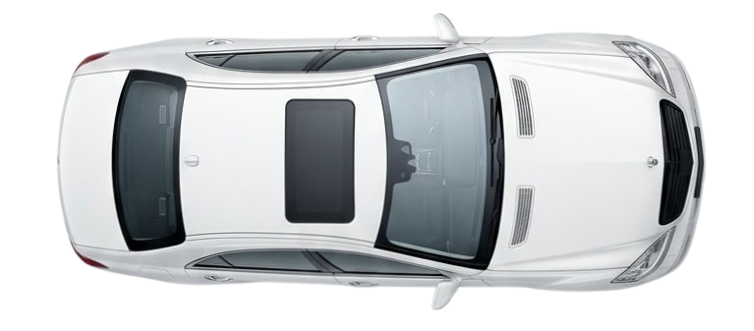
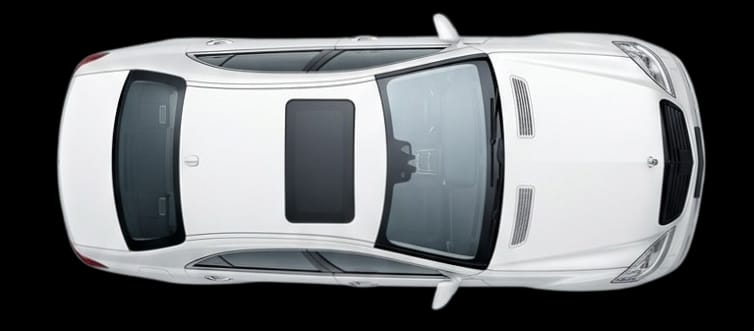
fix: update sitemap domain to taxiservicesinajmer.com, compress images to WebP, and improve accessibility & performance

diff --git a/src/data/vehicles.ts b/src/data/vehicles.ts
@@ -43,7 +43,7 @@ export const vehicles: Vehicle[] = [
     freeCancellation: true,
     bestFor: "Intercity one-way travel, airport transfers & business trips",
     popular: true,
-    image: "/images/vehicles/Maruti%20Swift%20Dzire.png",
+    image: "/images/vehicles/Maruti%20Swift%20Dzire.webp",
     altText: "Maruti Swift Dzire AC sedan taxi available for rental in Ajmer",
     fixedFares: {
       ajmerToPushkar: 700,
@@ -65,7 +65,7 @@ export const vehicles: Vehicle[] = [
     freeCancellation: true,
     bestFor: "Comfortable highway rides with large boot space",
     popular: true,
-    image: "/images/vehicles/Toyota%20Etios.png",
+    image: "/images/vehicles/Toyota%20Etios.webp",
     altText: "Toyota Etios sedan cab for outstation and airport pickup from Ajmer",
     fixedFares: {
       ajmerToPushkar: 700,
@@ -87,7 +87,7 @@ export const vehicles: Vehicle[] = [
     freeCancellation: true,
     bestFor: "Family trips, Pushkar pilgrimages & outstation tours",
     popular: true,
-    image: "/images/vehicles/Maruti%20Suzuki%20Ertiga.png",
+    image: "/images/vehicles/Maruti%20Suzuki%20Ertiga.webp",
     altText: "Maruti Ertiga 6-seater AC SUV taxi rental in Ajmer",
     fixedFares: {
       ajmerToPushkar: 1200,
@@ -109,7 +109,7 @@ export const vehicles: Vehicle[] = [
     freeCancellation: true,
     bestFor: "VIP travel, airport transfers & premium comfort tours",
     popular: true,
-    image: "/images/vehicles/inova%20cresta.png",
+    image: "/images/vehicles/inova%20cresta.webp",
     altText: "Toyota Innova Crysta luxury taxi rental in Ajmer",
     fixedFares: {
       ajmerToPushkar: 1800,
@@ -131,7 +131,7 @@ export const vehicles: Vehicle[] = [
     freeCancellation: true,
     bestFor: "Luxury group tours, royal weddings & corporate VIP delegation",
     popular: true,
-    image: "/images/vehicles/13%20Seater%20Maharaja%20Urbania.png",
+    image: "/images/vehicles/13%20Seater%20Maharaja%20Urbania.webp",
     altText: "13 Seater Maharaja Urbania luxury tempo traveller in Ajmer",
     featureBoxes: [
       { point: "Comfort:", price: "Maharaja Recliner Seats", toll: "(Push-Back)", isLuxury: true },
@@ -153,7 +153,7 @@ export const vehicles: Vehicle[] = [
     freeCancellation: true,
     bestFor: "High-comfort group journeys & outstation trips across Rajasthan",
     popular: false,
-    image: "/images/vehicles/17%20Seater%20Urbania%20Traveller.png",
+    image: "/images/vehicles/17%20Seater%20Urbania%20Traveller.webp",
     altText: "17 Seater Urbania luxury traveller in Ajmer",
     featureBoxes: [
       { point: "Comfort:", price: "Push-Back Recliners", toll: "(High-Roof AC)", isLuxury: true },
@@ -175,7 +175,7 @@ export const vehicles: Vehicle[] = [
     freeCancellation: true,
     bestFor: "Budget city travel, local Ajmer darshan & solo/couple trips",
     popular: false,
-    image: "/images/vehicles/Toyota%20Glanza.png",
+    image: "/images/vehicles/Toyota%20Glanza.webp",
     altText: "Toyota Glanza AC hatchback taxi available for hire in Ajmer",
     featureBoxes: [
       { point: "Ajmer City:", price: "Local Darshan Tour", toll: "(Full Day)" },
@@ -194,7 +194,7 @@ export const vehicles: Vehicle[] = [
     freeCancellation: true,
     bestFor: "Smooth highway cruising & family outstation packages",
     popular: false,
-    image: "/images/vehicles/Toyota%20Rumion.png",
+    image: "/images/vehicles/Toyota%20Rumion.webp",
     altText: "Toyota Rumion premium SUV cab booking in Ajmer",
     fixedFares: {
       ajmerToPushkar: 1200,
@@ -214,7 +214,7 @@ export const vehicles: Vehicle[] = [
     freeCancellation: true,
     bestFor: "Executive travel & long-distance Rajasthan tours",
     popular: false,
-    image: "/images/vehicles/Kia%20Carens.png",
+    image: "/images/vehicles/Kia%20Carens.webp",
     altText: "Kia Carens premium cab service in Ajmer and Pushkar",
     featureBoxes: [
       { point: "Executive:", price: "Plush Captain Seats", toll: "(6-Seater)" },
@@ -233,7 +233,7 @@ export const vehicles: Vehicle[] = [
     freeCancellation: true,
     bestFor: "Extended family tours & outstation pilgrimage trips",
     popular: false,
-    image: "/images/vehicles/Force%20Tempo%20Traveller.png",
+    image: "/images/vehicles/Force%20Tempo%20Traveller.webp",
     altText: "17 Seater Tempo Traveller on rent in Ajmer",
     featureBoxes: [
       { point: "Group Coach:", price: "High-Roof AC Cabin", toll: "(Push-Back)" },
@@ -256,7 +256,7 @@ export const vehicles: Vehicle[] = [
     freeCancellation: true,
     bestFor: "College trips, large family events & religious tours",
     popular: false,
-    image: "/images/vehicles/Force%20Tempo%20Traveller.png",
+    image: "/images/vehicles/Force%20Tempo%20Traveller.webp",
     altText: "21 Seater Tempo Traveller for hire in Ajmer",
     featureBoxes: [
       { point: "Large Group:", price: "Spacious Legroom & AC", toll: "(21 Seats)" },
@@ -279,7 +279,7 @@ export const vehicles: Vehicle[] = [
     freeCancellation: true,
     bestFor: "Wedding transportation, school/college groups & conventions",
     popular: false,
-    image: "/images/vehicles/Force%20Tempo%20Traveller.png",
+    image: "/images/vehicles/Force%20Tempo%20Traveller.webp",
     altText: "27 Seater luxury mini bus tempo traveller in Ajmer",
     featureBoxes: [
       { point: "Maxi Coach:", price: "Deluxe 27-Seater AC", toll: "(High-Roof)" },

diff --git a/src/styles/design-tokens.css b/src/styles/design-tokens.css
@@ -12,7 +12,7 @@
 
   /* Royal Gold Accents */
   --color-accent: #C59B27;
-  --color-accent-dark: #A47E18;
+  --color-accent-dark: #854D0E;
   --color-accent-light: #D4AF37;
   --color-accent-gold: #FAD66D;
   --color-accent-rgb: 197, 155, 39;
@@ -29,8 +29,8 @@
   /* Text & Contrast */
   --color-text: #22181C;
   --color-text-secondary: #4A3A3F;
-  --color-text-muted: #7A6A6F;
-  --color-text-light: #A09096;
+  --color-text-muted: #594A4E;
+  --color-text-light: #807075;
   --color-text-on-primary: #FCF8F0;
   --color-text-on-accent: #22181C;
   --color-white: #FFFFFF;

diff --git a/src/data/business.ts b/src/data/business.ts
@@ -54,5 +54,5 @@ export const business: BusinessInfo = {
     "All India Outstation"
   ],
   googleMapsUrl: "https://maps.google.com/?q=Ajmer+Rajasthan",
-  website: "https://taxirentalinajmer.com"
+  website: "https://www.taxiservicesinajmer.com"
 };
